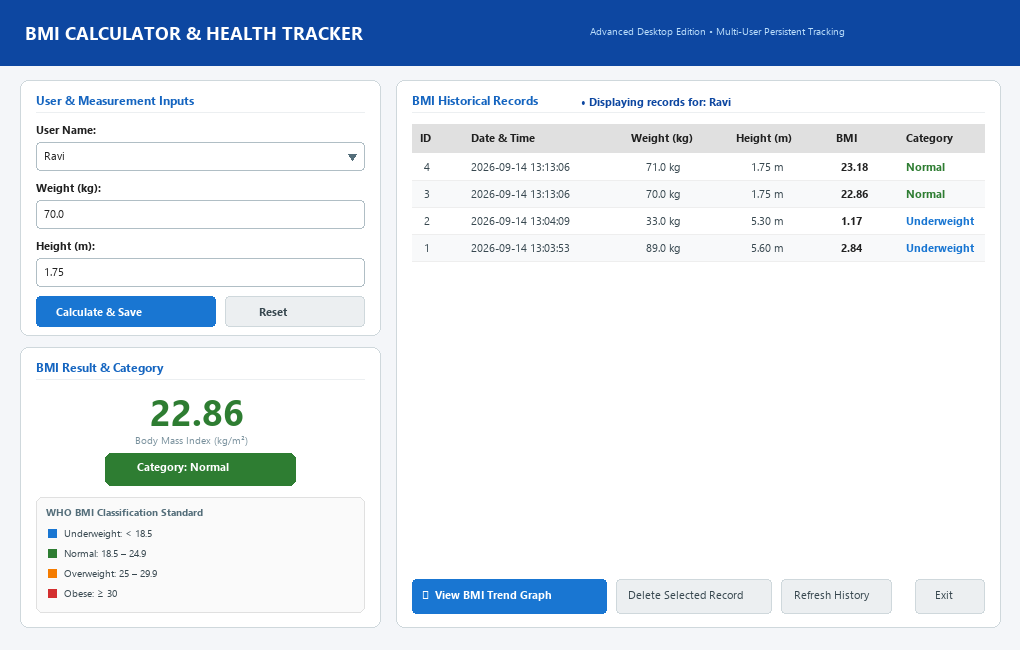
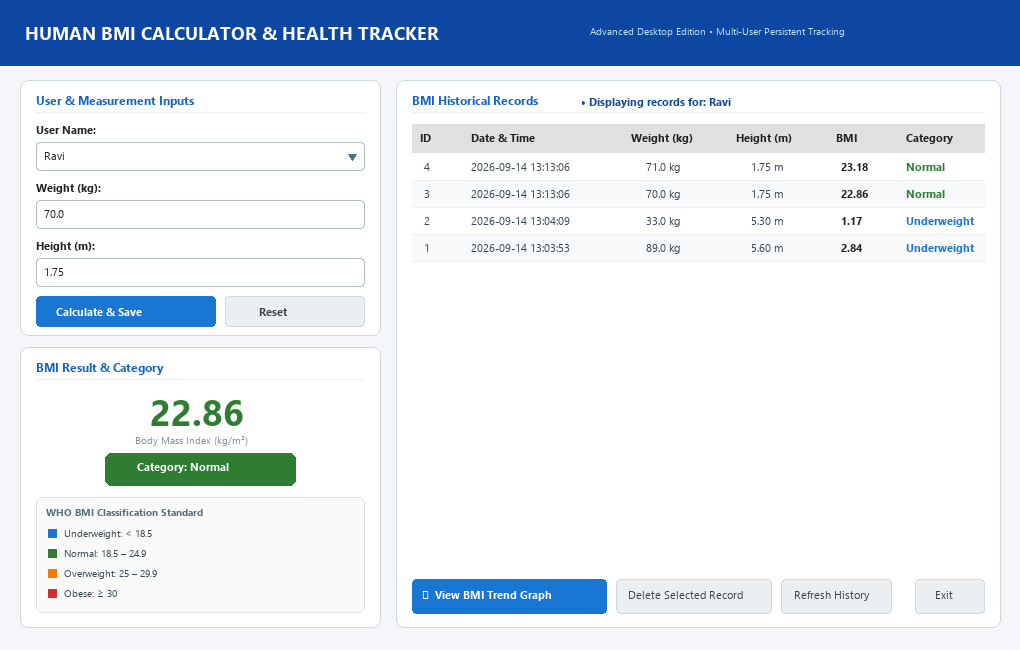
Updtead Title of the calculator name c4

Changed region(s): [[0.0304, 0.0308, 0.4255, 0.0615]]

diff --git a/Python Task2 BMICalculator/src/gui.py b/Python Task2 BMICalculator/src/gui.py
@@ -31,7 +31,7 @@ class BMICalculatorApp:
 
     def __init__(self, root: tk.Tk, db_manager: Optional[DatabaseManager] = None):
         self.root = root
-        self.root.title("BMI Calculator & Health Tracker — OIBSIP Task 2")
+        self.root.title("Human BMI Calculator & Health Tracker — OIBSIP Task 2")
         self.root.geometry("1020x680")
         self.root.minsize(920, 600)
 
@@ -124,7 +124,7 @@ class BMICalculatorApp:
 
         title_lbl = tk.Label(
             header_frame,
-            text="BMI CALCULATOR & HEALTH TRACKER",
+            text="HUMAN BMI CALCULATOR & HEALTH TRACKER",
             font=("Segoe UI", 15, "bold"),
             fg="#FFFFFF",
             bg="#0D47A1",

diff --git a/Python Task2 BMICalculator/main.py b/Python Task2 BMICalculator/main.py
@@ -1,5 +1,5 @@
 """
-Project Root Application Launcher for BMI Calculator & Health Tracker.
+Project Root Application Launcher for Human BMI Calculator & Health Tracker.
 
 Allows starting the application directly via `python main.py` as well as `python src/main.py`.
 """

diff --git a/Python Task2 BMICalculator/src/main.py b/Python Task2 BMICalculator/src/main.py
@@ -1,5 +1,5 @@
 """
-Main Application Launcher for BMI Calculator & Health Tracker.
+Main Application Launcher for Human BMI Calculator & Health Tracker.
 
 Oasis Infobyte (OIBSIP) Python Programming Internship - Task 2 (Advanced).
 """

diff --git a/Python Task2 BMICalculator/README.md b/Python Task2 BMICalculator/README.md
@@ -1,17 +1,17 @@
-# Advanced BMI Calculator & Health Tracker (OIBSIP Task 2)
+# Advanced Human BMI Calculator & Health Tracker (OIBSIP Task 2)
 
-A modular, desktop Graphical User Interface (GUI) application developed in Python for the **Oasis Infobyte (OIBSIP) Python Programming Internship – Task 2: BMI Calculator (Advanced Level)**.
+A modular, desktop Graphical User Interface (GUI) application developed in Python for the **Oasis Infobyte (OIBSIP) Python Programming Internship – Task 2: Human BMI Calculator (Advanced Level)**.
 
 ---
 
 ## 1. Project Title
-**Advanced BMI Calculator & Health Tracker**  
+**Advanced Human BMI Calculator & Health Tracker**  
 *OIBSIP Python Programming Internship — Task 2 (Advanced Edition)*
 
 ---
 
 ## 2. Project Overview
-The **Advanced BMI Calculator** is an independently engineered desktop application built with Python, Tkinter, SQLite3, and Matplotlib. It enables individuals and healthcare practitioners to calculate Body Mass Index (BMI), track historical measurements across multiple isolated user profiles, and visualize longitudinal health trends over time against World Health Organization (WHO) benchmarks.
+The **Advanced Human BMI Calculator** is an independently engineered desktop application built with Python, Tkinter, SQLite3, and Matplotlib. It enables individuals and healthcare practitioners to calculate Body Mass Index (BMI), track historical measurements across multiple isolated user profiles, and visualize longitudinal health trends over time against World Health Organization (WHO) benchmarks.
 
 ### Application Screenshots
 
